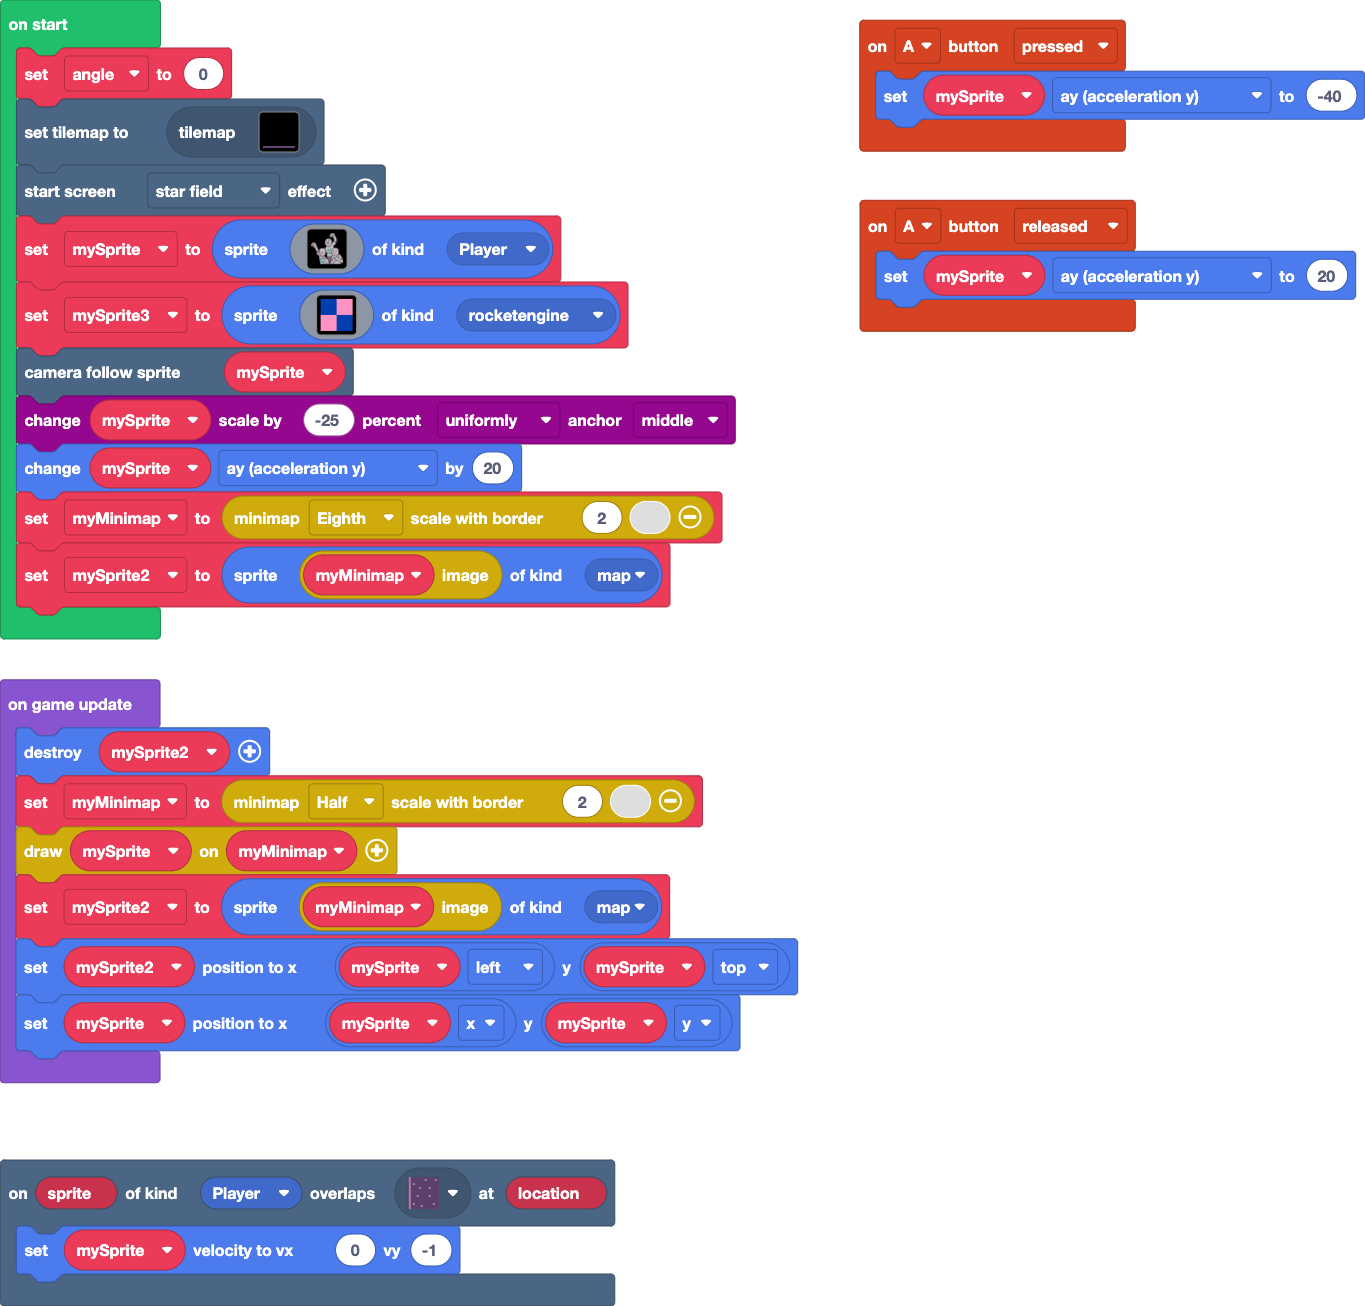
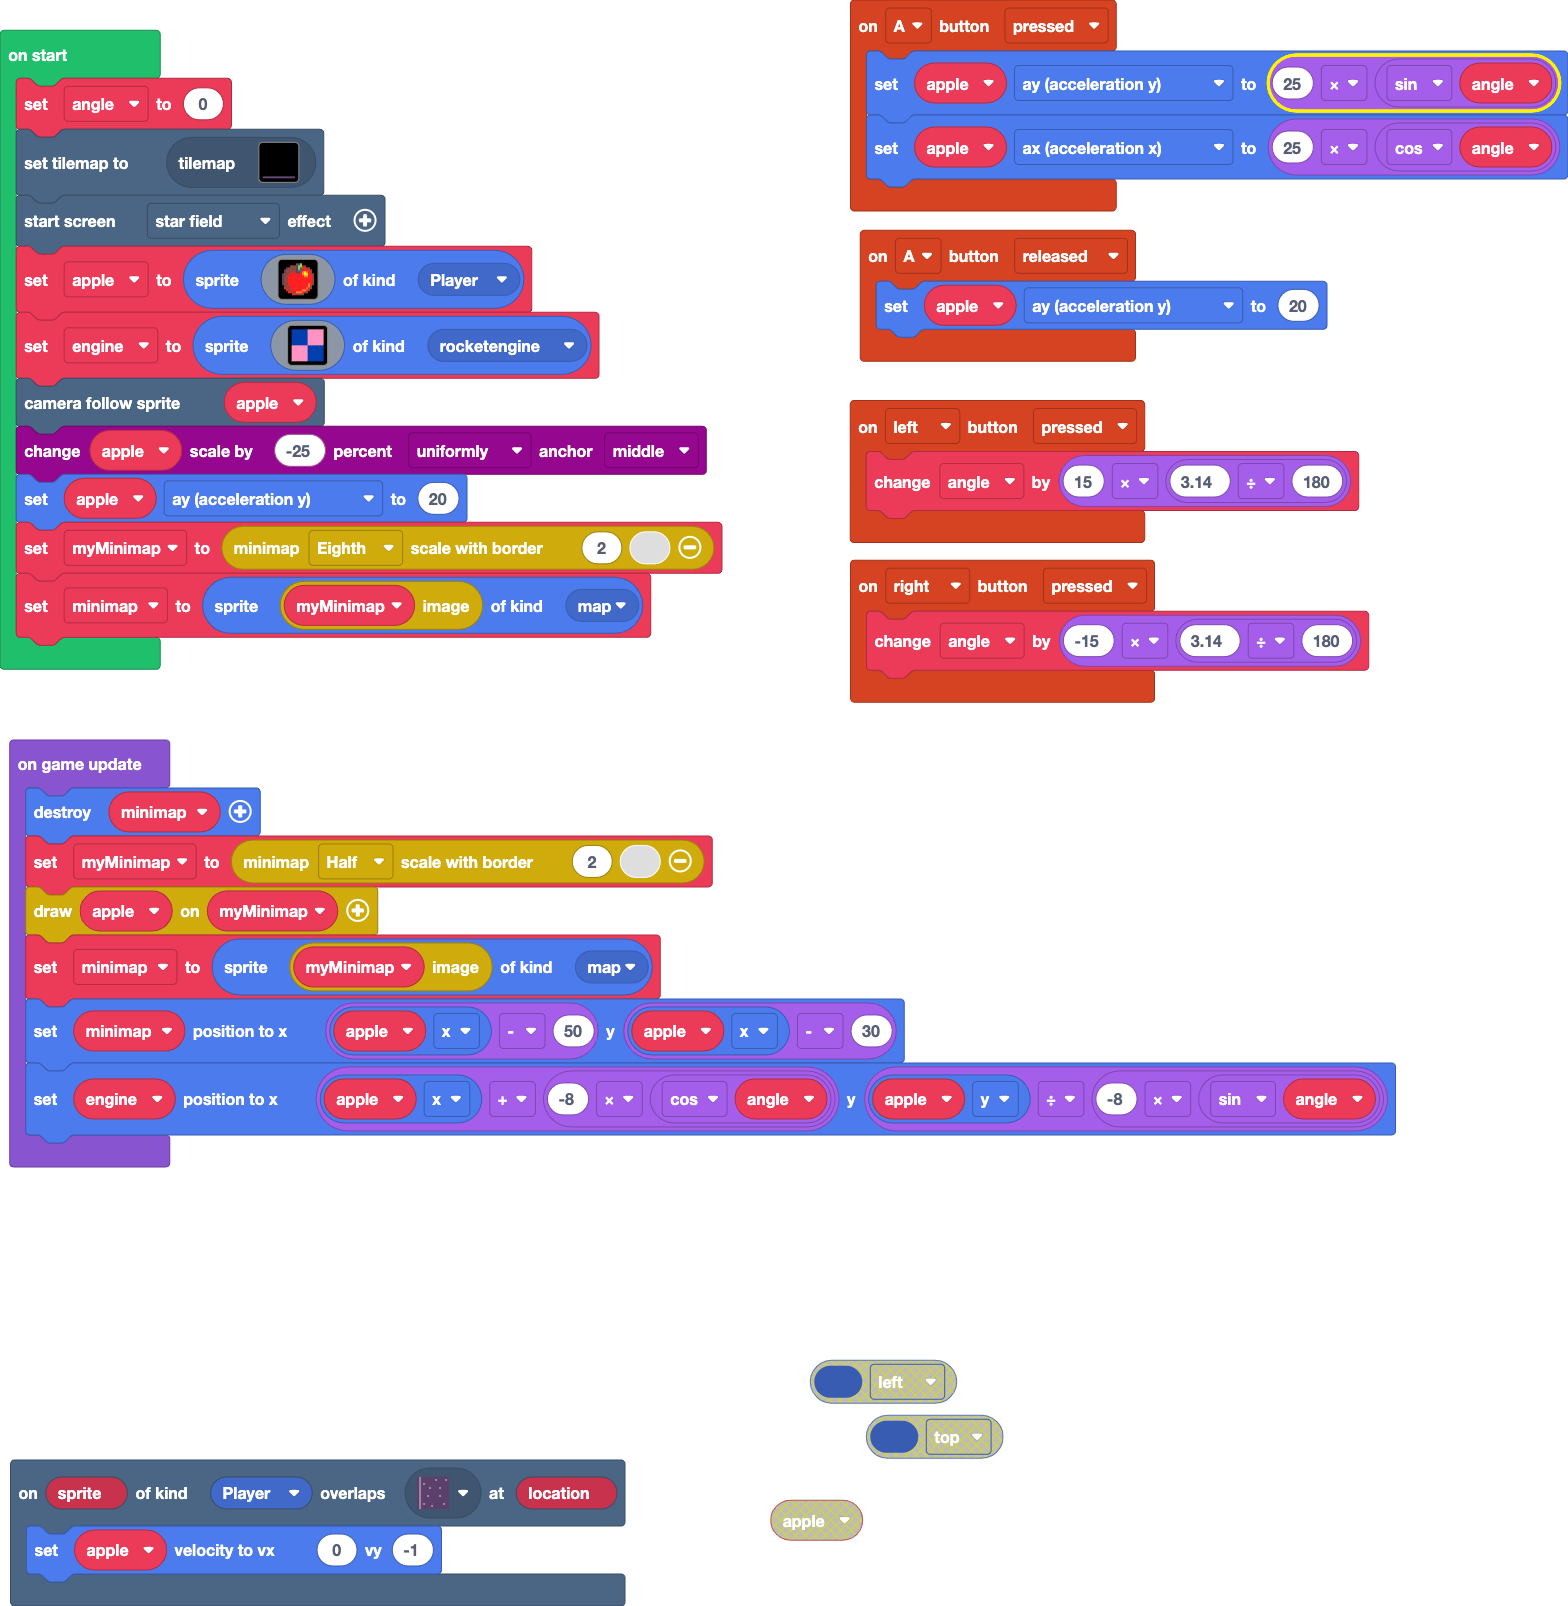
Movement works

diff --git a/main.ts b/main.ts
@@ -3,114 +3,58 @@ namespace SpriteKind {
     export const rocketengine = SpriteKind.create()
 }
 controller.A.onEvent(ControllerButtonEvent.Pressed, function () {
-    mySprite.ay = -40
+    apple.ay = 25 * Math.sin(angle)
+    apple.ax = 25 * Math.cos(angle)
+})
+controller.left.onEvent(ControllerButtonEvent.Pressed, function () {
+    angle += 15 * (3.14 / 180)
+})
+controller.right.onEvent(ControllerButtonEvent.Pressed, function () {
+    angle += -15 * (3.14 / 180)
 })
 controller.A.onEvent(ControllerButtonEvent.Released, function () {
-    mySprite.ay = 20
+    apple.ay = 20
 })
 scene.onOverlapTile(SpriteKind.Player, sprites.dungeon.darkGroundWest, function (sprite, location) {
-    mySprite.setVelocity(0, -1)
+    apple.setVelocity(0, -1)
 })
-let mySprite: Sprite = null
+let apple: Sprite = null
 let angle = 0
+angle = 0
 tiles.setCurrentTilemap(tilemap`level1`)
 effects.starField.startScreenEffect()
-mySprite = sprites.create(img`
-    ....................................................fffffffff......................
-    ...................................................ff1111111ff.....................
-    ..................................................ff111111111f.....................
-    .................................................ff1111111111ff....................
-    ................................................ff111111bbb11ff....................
-    ................................................f1111111bbdb11f....................
-    ................................................f1111111bbdd11ff...................
-    ................................................fc1111ccccdd111f...................
-    ................................................fccccccddddd111ff..................
-    ...............................................f11cccdddddcc1111f..................
-    ...............................................ff11cdddddcc11111ff.................
-    ................................................ffffffffff1111111f.................
-    .........................................................ff111111ff................
-    ..........................................................f1111111f................
-    .........................................fffffffff........ff111111f................
-    .......................................fff1111111fff.......f111111ff...............
-    ......................................ff11111111111ff......fb111111f...............
-    .....................................ff1111111111111ff.....fb111111f...............
-    .....................................f11111111cc11111f.....fb11111df...............
-    ....................................ff1cc11111cc11111ff....fbd111ddf...............
-    ....................................f11cc11111cc111111f....fdddddddf...............
-    ....................................f11cc11111bb111111f...fbbddddddf...............
-    ....................................f11bb1111111111111f..ff1bbdddddf...............
-    ....................................f1111111111b111111f.ff111bbdddff...............
-    ....fffffff.........................f111b11111bb111111fff11111bbdff................
-    ...ff11111ff........................f1111cccccc1111111ff1111111bff.................
-    ..ff1111111ff.......................f11111ccc33111111cc111111111ff.................
-    .ff111bbb111ff......................f111111c333111111cb1111111111f.................
-    ff11111bbb111ff.....................f111111c33311111cc1b11111111ff.................
-    f1111cccbb1111f.....................ff11111133111111c11b1111111ff..................
-    f111cc11111111f......................f1111111111111cc111b11111ff...................
-    f111c111111111f......................ff111111111111c1111b1111ff....................
-    f111ccccc11111f.......................ff1111111111cc11111b11ff.....................
-    ff111bbdc11111ff.......................fcc1111111cc1111111bff......................
-    .fffbbdddb11111f.......................fccccccccc1b11111111ff......................
-    ...ffdddddbb111ff.....................ffb1111b1111b11111111ff......................
-    ....ffdddd111111f....................ffb11111b111b111111111ff......................
-    .....fffff111111ff..................ffbb111111bbb1111111111ffffffff................
-    .........f1111111f.................ffdb11111111111111111111ffffffffff..............
-    .........ff111111ff......fffffffffffddb1111111111111111111cc1111111fff.............
-    ..........ff111111f....fff1111111cccddb11111111111161111cc11111111111ff............
-    ..........ff111111ff..ff11111111111ccdd1111111111166111cc1111111111111ff...........
-    ...........f1111111f.ff1111111111111ccd1111161611166111c111111111111111ff..........
-    ...........ffd11111fff111111111111111cc111166666111611cc111111111111111ff..........
-    ............fdd111b1ff111111111111111cc111116161111611c11111111133133111f..........
-    ............ffddddb1f11111111111111111c111166666111611c11111111133333111ff.........
-    .............fdddb11f1cc11111111111111cc11116161116661c13313311133333111ff.........
-    .............ffdbb11f1cc11111111111111cc11111111111111c13333311113331111ff.........
-    ..............fccb11f1cc11111111111111ff11111111111111c13333311111311111ff.........
-    ..............fcc111f1bb11111cc1111111ff11111111111661c11333111111111111ff.........
-    ..............fcc111f11111111cc1111111fff1166616611616c1113111111b111111ff.........
-    ..............fc1111f11b11111cc1111111fff1161116161616c11111b1111b111111ff.........
-    ..............f11111f11b111b1bb1111111fff1166616661616c111111cccc1111111ff.........
-    ..............f11111f111cccb1111111111f.ff161116161616cc111111111111111cf..........
-    ...............f11111c11b331111111111ff.ff1611161611111c111111111111111cffff.......
-    ...............ff1111c113331111111111f..ff1111111111111cc1111111111111ccddfff......
-    ................ff1111c1333111111111ff...f11111111111111cc11111111111ccddbddff.....
-    .................ff1111c11111111111ff....f11111111111111cccc1111111cccddbbdddff....
-    ..................ff11b1cc1111111cccf....f111111111111bcc11ccccccccc1111b11dddff...
-    ...................ff1b11bcccccccbdcff...f1111111111bbcc1111111111111111b1111dff...
-    ....................ff111bb11111bbddfff..f111111bbbbbcc111111111ccc1111cc111111ff..
-    ....................ff1111bb111bbddddfff.fbbbbbbbbbbbcd111111111c1cc11cc1c11111ff..
-    .....................f11111bbbbbddddddffffbbbbbbbbbbccd111cc111c111cc1c11c111111ff.
-    .....................f111111ddddddddddbfffbbbbbbbbbbcdd11c1cc11c1111ccc11c111111ff.
-    .....................f1111111ddddddddbbdfffbbbbbbbbccdd11c11c1c111111cc11c111111bff
-    .....................f11161611dd6dddbbdddffcbbbbbbbccdd11c11ccc1111111111c11111bbff
-    .....................f11666661166dddbdddddccbbbbbbbcddd11c11ccc1111111111c1111bbddf
-    .....................f111616111661ddbddddddccbbbbbbcddd11c1111cc111111111ccc1bbdddf
-    .....................ff1666661116111bdddddd1cbbbbbbccbbd1c11111cc1111111111ccccdddd
-    .....................ff1161611116111b1dddd11ccbbbbbcddbbcc111111cc111111111111ccccd
-    ......................f1111111116111b11111111cbbbbbcdddcc11111111ccc1111111111111cc
-    ......................f1111111166611b11111111ccbbbbcddcc111111111ccccc1111111111111
-    ......................f1166611111111bb11111111cbbbccdcc11111111ccc111ccc11111111111
-    ......................f11611166111111b11111111cbbbcccc111111cccc1111111ccc111111111
-    ......................ff1666161616611b1111111ccbbbccc1111111c111111111111ccc1111111
-    ......................ff1611166616161b111111bcccbbcc1111111cc11111111111111ccc11111
-    .......................f16111616161611b111bbb1ccbbc11111111c11111111111111111fcc111
-    .......................f11111616161611bbbbb111cccbc1111111cc11111111111111111ffccff
-    .......................f1111111111111111b111111cccc111111cc1111111111111111111f....
-    .......................f1111111111111111b111111cccc11111cc11111111111111111111f....
+apple = sprites.create(img`
+    . . . . . . . e c 7 . . . . . . 
+    . . . . e e e c 7 7 e e . . . . 
+    . . c e e e e c 7 e 2 2 e e . . 
+    . c e e e e e c 6 e e 2 2 2 e . 
+    . c e e e 2 e c c 2 4 5 4 2 e . 
+    c e e e 2 2 2 2 2 2 4 5 5 2 2 e 
+    c e e 2 2 2 2 2 2 2 2 4 4 2 2 e 
+    c e e 2 2 2 2 2 2 2 2 2 2 2 2 e 
+    c e e 2 2 2 2 2 2 2 2 2 2 2 2 e 
+    c e e 2 2 2 2 2 2 2 2 2 2 2 2 e 
+    c e e 2 2 2 2 2 2 2 2 2 2 4 2 e 
+    . e e e 2 2 2 2 2 2 2 2 2 4 e . 
+    . 2 e e 2 2 2 2 2 2 2 2 4 2 e . 
+    . . 2 e e 2 2 2 2 2 4 4 2 e . . 
+    . . . 2 2 e e 4 4 4 2 e e . . . 
+    . . . . . 2 2 e e e e . . . . . 
     `, SpriteKind.Player)
-let mySprite3 = sprites.create(img`
+let engine = sprites.create(img`
     8 3 
     3 8 
     `, SpriteKind.rocketengine)
-scene.cameraFollowSprite(mySprite)
-scaling.scaleByPercent(mySprite, -25, ScaleDirection.Uniformly, ScaleAnchor.Middle)
-mySprite.ay += 20
+scene.cameraFollowSprite(apple)
+scaling.scaleByPercent(apple, -25, ScaleDirection.Uniformly, ScaleAnchor.Middle)
+apple.ay = 20
 let myMinimap = minimap.minimap(MinimapScale.Eighth, 2, 0)
-let mySprite2 = sprites.create(minimap.getImage(myMinimap), SpriteKind.map)
+let minimap2 = sprites.create(minimap.getImage(myMinimap), SpriteKind.map)
 game.onUpdate(function () {
-    mySprite2.destroy()
+    minimap2.destroy()
     myMinimap = minimap.minimap(MinimapScale.Half, 2, 0)
-    minimap.includeSprite(myMinimap, mySprite)
-    mySprite2 = sprites.create(minimap.getImage(myMinimap), SpriteKind.map)
-    mySprite2.setPosition(mySprite.left, mySprite.top)
-    mySprite.setPosition(mySprite.x, mySprite.y)
+    minimap.includeSprite(myMinimap, apple)
+    minimap2 = sprites.create(minimap.getImage(myMinimap), SpriteKind.map)
+    minimap2.setPosition(apple.x - 50, apple.x - 30)
+    engine.setPosition(apple.x + -8 * Math.cos(angle), apple.y / (-8 * Math.sin(angle)))
 })
